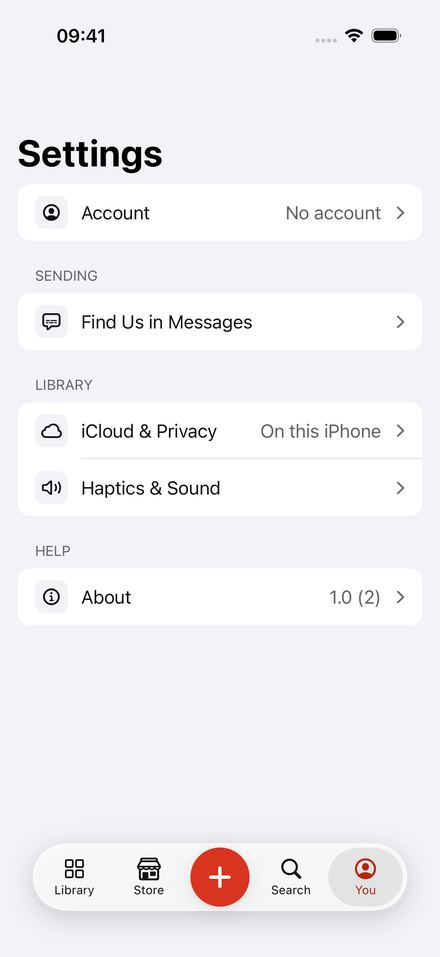
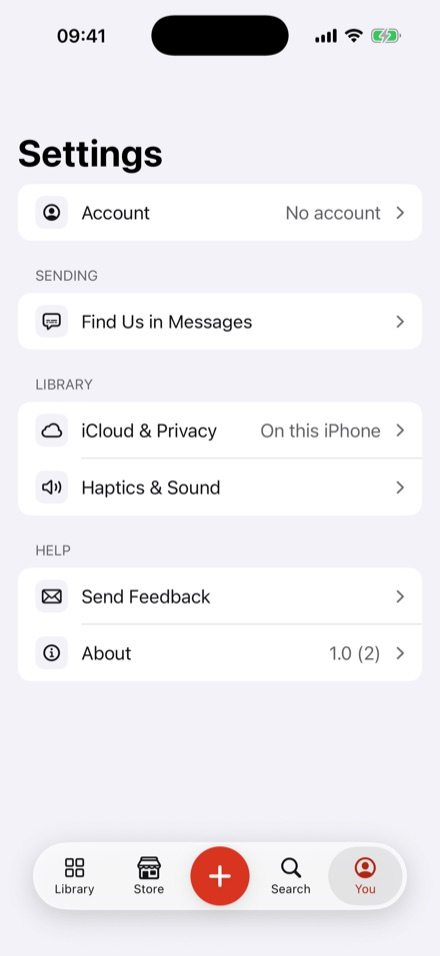
Tester guide: Settings screenshot with the Send Feedback row
Claude-Session: https://claude.ai/code/session_01HTbxws2iAvFMRRoq9pFys3

diff --git a/testers.html b/testers.html
@@ -187,7 +187,7 @@ footer{text-align:center;display:flex;flex-direction:column;gap:6px}
         <div class="w-copy"><h3>If it crashes</h3><p class="sub">TestFlight asks if you want to send a crash report. Say yes, and add a line about what you were doing.</p></div></li>
     </ul>
   </div>
-  <div class="shot lg"><img src="assets/testers/settings.jpg" width="440" height="957" loading="lazy" alt="The app's Settings screen with Account, Find Us in Messages, iCloud and Privacy, Haptics and Sound, and a Help section."></div>
+  <div class="shot lg"><img src="assets/testers/settings.jpg" width="440" height="956" loading="lazy" alt="The app's Settings screen with Account, Find Us in Messages, iCloud and Privacy, Haptics and Sound, and a Help section with Send Feedback and About."></div>
 </section>
 
 <section class="card row" aria-labelledby="s5">
